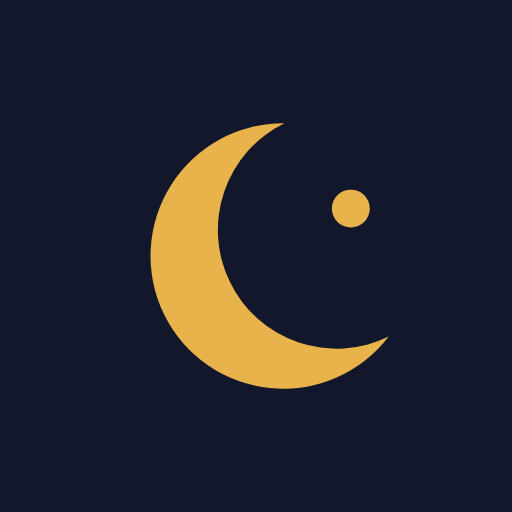
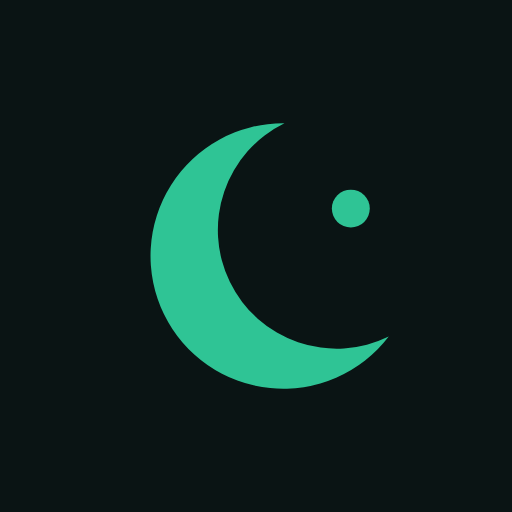
Web: simge yeni renklerde (Gece zümrüdü)
Claude-Session: https://claude.ai/code/session_013SzsNpaDRcVyNMjfTBYoiS

Changed region(s): [[0.2812, 0.2188, 0.75, 0.7812], [0.625, 0.375, 0.7188, 0.4688]]

diff --git a/web/sw.js b/web/sw.js
@@ -1,5 +1,5 @@
 // Cevrimdisi calisma: once onbellek, arkada agdan tazele (bir sonraki aciliste yeni surum).
-const CACHE = 'salavat-v2';
+const CACHE = 'salavat-v3';
 const SHELL = ['./', 'index.html', 'style.css', 'app.js', 'parser.js', 'tasbih.js', 'rosary.js', 'salavat.json', 'manifest.webmanifest', 'icon.svg', 'icon-192.png', 'icon-512.png'];
 
 self.addEventListener('install', (e) => {

diff --git a/README.md b/README.md
@@ -27,7 +27,8 @@ Web'de eklenip Android'e henüz taşınmayanlar:
   sığar (Ses/Titreşim yuvarlak düğmede, TUR kartından hedef); kayıt başlığında Aa,
   alt çubukta 📅 Virde ekle; boş vakte hazır namaz tesbihatı; dokunma alanları en az 40 px
 - **Renkler**: koyu "Gece zümrüdü" (varsayılan) ve açık "Gündüz" teması, panoda ☀/🌙 ile
-  değişir; +1, sekmeler ve tespih halkası vurgu renginde, boncuklar materyalden
+  değişir; +1, sekmeler ve tespih halkası vurgu renginde, boncuklar materyalden;
+  uygulama simgesi de yeni renklerde (yeşil hilal)
 - **Okuma sayfası** (mushaf): kâğıt zemin, Arapça / Okunuş / Anlam çipleri, sayfa
   sayfa çevirme, sürüklenebilir yuvarlak sayaç, Aa yazı boyutu
 - **Diğer uygulamaların üstünde tespih balonu** (bildirimden +1 ile): yalnız
